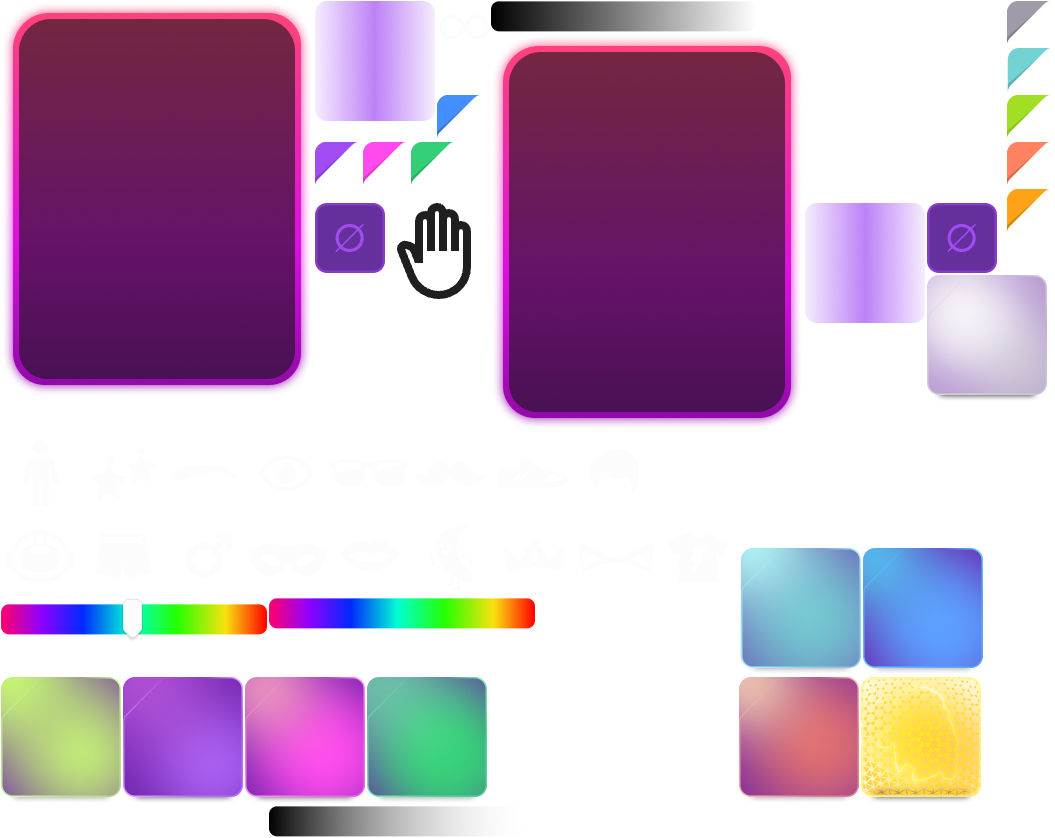
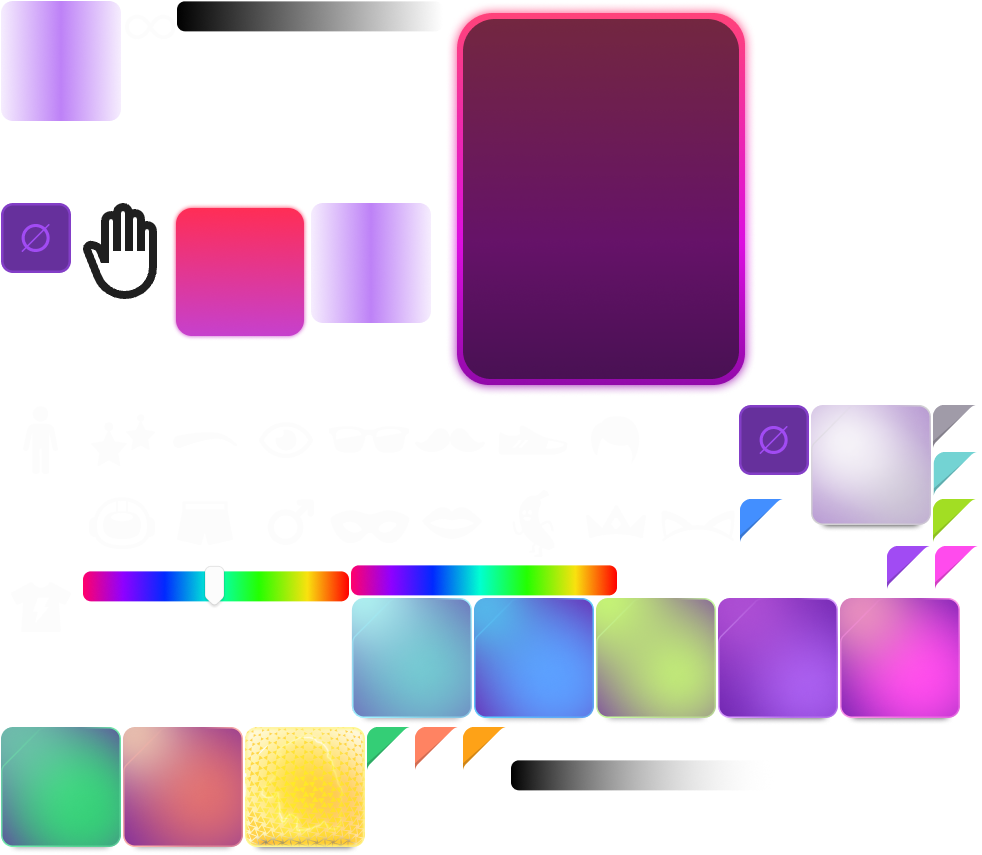
feat: backpack WIP: add wearableItem hover effect

diff --git a/scene/src/components/backpack/WearableCatalogItem.tsx b/scene/src/components/backpack/WearableCatalogItem.tsx
@@ -30,6 +30,7 @@ type WearableCatalogItemProps = {
   onEquipWearable?: (wearableElement: CatalogWearableElement) => void
   onSelect?: () => void
 }
+const state: any = { hoveredURN: null }
 
 export function WearableCatalogItem(
   props: WearableCatalogItemProps
@@ -48,7 +49,7 @@ export function WearableCatalogItem(
   const mustShowEquippedBorder = (): boolean =>
     !loading && isEquipped && !isSelected
   const mustShowSelectedOverlay = (): boolean => isSelected && !loading
-
+  const isHovered = (): boolean => state.hoveredURN === wearableElement?.urn
   return (
     <UiEntity
       uiTransform={{
@@ -59,9 +60,13 @@ export function WearableCatalogItem(
         ...uiTransform
       }}
       onMouseDown={onSelect}
+      onMouseEnter={() => {
+        console.log('hoveredURN', wearableElement.urn)
+        state.hoveredURN = wearableElement.urn
+      }}
     >
       {mustShowEquippedBorder() && <EquippedBorder />}
-
+      {isHovered() && <HoverBorder />}
       {!isSelected && (
         <WearableCellThumbnail
           uiTransform={{ width: '100%', height: '100%' }}
@@ -69,7 +74,6 @@ export function WearableCatalogItem(
           loading={loading}
         />
       )}
-
       {mustShowSelectedOverlay() && (
         <SelectedWearableOverlay
           wearableElement={wearableElement}
@@ -79,6 +83,25 @@ export function WearableCatalogItem(
         />
       )}
     </UiEntity>
+  )
+}
+
+function HoverBorder(): ReactElement | null {
+  return (
+    <UiEntity
+      uiTransform={{
+        positionType: 'absolute',
+        width: '100%',
+        height: '95%',
+        position: { top: 0, left: 0 }
+      }}
+      uiBackground={{
+        ...getBackgroundFromAtlas({
+          spriteName: 'hover-item',
+          atlasName: 'backpack'
+        })
+      }}
+    />
   )
 }
 

diff --git a/scene/src/components/backpack/WearableCatalogGrid.tsx b/scene/src/components/backpack/WearableCatalogGrid.tsx
@@ -115,9 +115,7 @@ If you want you can find the ideal one for you in the <color=${Color4.toHexStrin
       {wearables.map(
         (wearableElement: CatalogWearableElement, index: number) => (
           <WearableCatalogItem
-            uiTransform={{
-              flexShrink: 0
-            }}
+            uiTransform={{}}
             key={index}
             wearableElement={wearableElement}
             onEquipWearable={(wearableElement: CatalogWearableElement) => {
